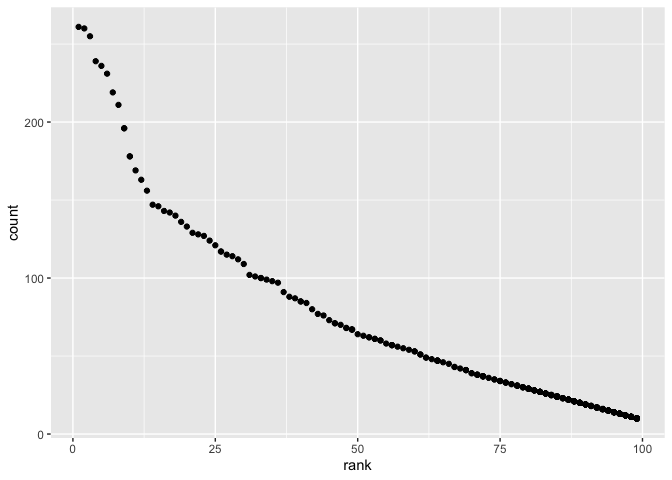
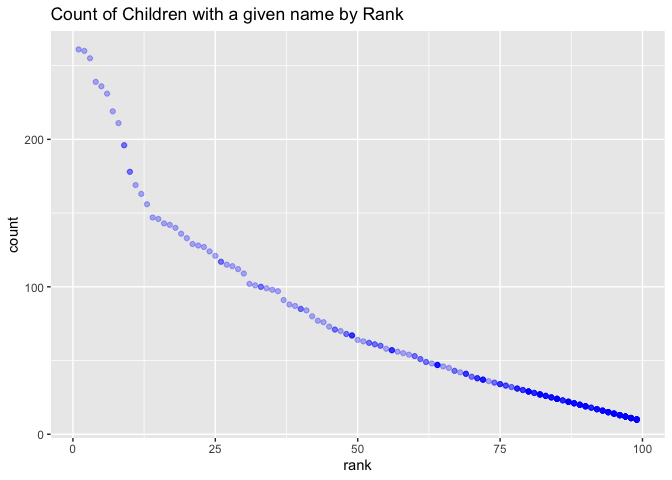
minor edits, removing messages, rounding

diff --git a/p8105_hw2_cz2657.md b/p8105_hw2_cz2657.md
@@ -7,47 +7,38 @@ Reading and cleaning Mr. Trash Wheel sheet
 
 ``` r
 library(tidyverse)
-```
-
-    ## ── Attaching packages ─────────────────────────────────────── tidyverse 1.3.1 ──
-
-    ## ✓ ggplot2 3.3.5     ✓ purrr   0.3.4
-    ## ✓ tibble  3.1.4     ✓ dplyr   1.0.7
-    ## ✓ tidyr   1.1.3     ✓ stringr 1.4.0
-    ## ✓ readr   2.0.1     ✓ forcats 0.5.1
-
-    ## ── Conflicts ────────────────────────────────────────── tidyverse_conflicts() ──
-    ## x dplyr::filter() masks stats::filter()
-    ## x dplyr::lag()    masks stats::lag()
-
-``` r
 library(readxl)
 ```
 
 ``` r
 trash_df = 
-  read_excel("Trash-Wheel-Collection-Totals-8-6-19.xlsx", sheet = "Mr. Trash Wheel", range = "A2:N408", col_names = TRUE) %>% 
+  read_excel("data/Trash-Wheel-Collection-Totals-8-6-19.xlsx", sheet = "Mr. Trash Wheel", range = "A2:N408", col_names = TRUE) %>% 
   janitor::clean_names() %>% 
-  drop_na("dumpster") 
+  drop_na("dumpster") %>% 
+  mutate(sports_balls = round(as.numeric(sports_balls)))
 
-rain2018_df = read_excel("Trash-Wheel-Collection-Totals-8-6-19.xlsx", sheet = "2018 Precipitation", range = "A2:B14", col_names = TRUE) %>% mutate(year = 2018) %>% janitor::clean_names() %>% drop_na(total)
+rain2018_df = read_excel("data/Trash-Wheel-Collection-Totals-8-6-19.xlsx", sheet = "2018 Precipitation", range = "A2:B14", col_names = TRUE) %>%
+  mutate(year = 2018) %>% 
+  janitor::clean_names() %>% 
+  drop_na(total)
 
-rain2019_df = read_excel("Trash-Wheel-Collection-Totals-8-6-19.xlsx", sheet = "2019 Precipitation", range = "A2:B14", col_names = TRUE) %>% mutate(year = 2019) %>% janitor::clean_names() %>% drop_na(total)
+rain2019_df = read_excel("data/Trash-Wheel-Collection-Totals-8-6-19.xlsx", sheet = "2019 Precipitation", range = "A2:B14", col_names = TRUE) %>%
+  mutate(year = 2019) %>% 
+  janitor::clean_names() %>% 
+  drop_na(total)
 
 rain_df = full_join(rain2018_df, rain2019_df) %>% 
   mutate(month = month.name[month]) %>% 
   rename(total_precipitation_in = total)
 ```
 
-    ## Joining, by = c("month", "total", "year")
-
 The `trash_df` dataset has 344 observations and includes the variables
 `weight_tons` and `volume_cubic_yards` which describe the amount of
 garbage consumed by Mr. Trash Wheel. Furthermore, it provides detail
 around the number of plastic bottles (`plastic_bottles`), cigarette
 butts (`cigarette_butts`), and grocery bags (`grocery_bags`) consumed by
-Mr. Trash Wheel. Excitingly, Mr. Trash Wheel powered a maximum of
-93.6666667 using the trash collected for a single dumpster. The median
+Mr. Trash Wheel. Excitingly, Mr. Trash Wheel powered up to 93.6666667
+homes using the trash collected from a single dumpster. The median
 number of `sports_balls` in a dumpster in 2019 was 8.5.
 
 The `rain_df`dataset has 18 observations and includes the variables
@@ -57,71 +48,28 @@ month, total\_precipitation\_in, year. Total precipitation in 2018 was
 ## Problem 2
 
 ``` r
-pols_df = read_csv("pols-month.csv") %>% 
+pols_df = read_csv("data/pols-month.csv") %>% 
   janitor::clean_names() %>% 
-  separate(mon, into = c("year", "month", "day")) %>% 
-  mutate(month = month.name[as.numeric(month)], year = as.numeric(year), president = ifelse(prez_gop, "gop", "dem")) %>% 
+  separate(mon, into = c("year", "month", "day"), convert = TRUE) %>% 
+  mutate(month = month.name[month], president = ifelse(prez_gop, "gop", "dem")) %>% 
   select (-prez_dem, -prez_gop, -day)
-```
 
-    ## Rows: 822 Columns: 9
-
-    ## ── Column specification ────────────────────────────────────────────────────────
-    ## Delimiter: ","
-    ## dbl  (8): prez_gop, gov_gop, sen_gop, rep_gop, prez_dem, gov_dem, sen_dem, r...
-    ## date (1): mon
-
-    ## 
-    ## ℹ Use `spec()` to retrieve the full column specification for this data.
-    ## ℹ Specify the column types or set `show_col_types = FALSE` to quiet this message.
-
-``` r
-snp_df = read_csv("snp.csv") %>% 
+snp_df = read_csv("data/snp.csv") %>% 
   janitor::clean_names() %>% 
   mutate(date = as.Date(date,"%m/%d/%y ")) %>% 
-  separate(date, into = c("year", "month", "day")) %>% 
-  mutate(month = month.name[as.numeric(month)], day = as.numeric(day), year = as.numeric(year)) %>% 
-  select(year, month, everything(), -day) %>% 
-  rename(snp_close_value = close)
-```
+  separate(date, into = c("year", "month", "day"), convert = TRUE) %>% 
+  mutate(month = month.name[month]) %>% 
+  select(year, month, snp_close_value = close, -day)
 
-    ## Rows: 787 Columns: 2
-
-    ## ── Column specification ────────────────────────────────────────────────────────
-    ## Delimiter: ","
-    ## chr (1): date
-    ## dbl (1): close
-
-    ## 
-    ## ℹ Use `spec()` to retrieve the full column specification for this data.
-    ## ℹ Specify the column types or set `show_col_types = FALSE` to quiet this message.
-
-``` r
-unemployment_df = read_csv("unemployment.csv") %>% 
+unemployment_df = read_csv("data/unemployment.csv") %>% 
   pivot_longer(Jan:Dec, names_to = "month") %>% 
   mutate(month = match(month, month.abb), month = month.name[month]) %>% 
   janitor::clean_names() %>% 
   rename(percent_unemployed = value)
-```
 
-    ## Rows: 68 Columns: 13
-
-    ## ── Column specification ────────────────────────────────────────────────────────
-    ## Delimiter: ","
-    ## dbl (13): Year, Jan, Feb, Mar, Apr, May, Jun, Jul, Aug, Sep, Oct, Nov, Dec
-
-    ## 
-    ## ℹ Use `spec()` to retrieve the full column specification for this data.
-    ## ℹ Specify the column types or set `show_col_types = FALSE` to quiet this message.
-
-``` r
 fte_df = left_join(pols_df, snp_df, by = c("year", "month")) %>% 
   left_join(unemployment_df, by = c("year", "month"))
 ```
-
-## Confirm that I can delete day in snp data set
-
-## Confirm that I can not round
 
 The `prez_df` dataset provides information on the number of Republican
 and Democratic government officials during each month beginning in 1947,
@@ -140,7 +88,7 @@ and 816 observations.
 Finally, the compiled dataset, `fte_df` combines this information by
 month and year to provide the unemployment percentage, S&P closing
 value, and political representation information on a monthly basis from
-`r min(pull(fte_df, year))` to 2015, although some information is
+`r min(pull(fte_df, year))` to 2015, although some datapoints are
 missing especially in earlier years. The dataset has 822 observations
 and 11 variables, including all `president`, `percent_unemployed`, and
 `snp_close_value`.
@@ -150,34 +98,11 @@ and 11 variables, including all `president`, `percent_unemployed`, and
 Loading and tidying the baby names data
 
 ``` r
-baby_df = read_csv("Popular_Baby_Names.csv") %>% 
+baby_df = read_csv("data/Popular_Baby_Names.csv") %>% 
   janitor::clean_names() %>% 
   mutate(ethnicity = str_to_lower(ethnicity), gender = str_to_lower(gender), ethnicity = recode (ethnicity, "asian and paci" = "asian and pacific islander", "black non hisp" = "black non hispanic", "white non hisp" = "white non hispanic")) %>% 
   distinct(year_of_birth, gender, ethnicity, childs_first_name, count, rank, .keep_all = TRUE) 
 ```
-
-    ## Rows: 19418 Columns: 6
-
-    ## ── Column specification ────────────────────────────────────────────────────────
-    ## Delimiter: ","
-    ## chr (3): Gender, Ethnicity, Child's First Name
-    ## dbl (3): Year of Birth, Count, Rank
-
-    ## 
-    ## ℹ Use `spec()` to retrieve the full column specification for this data.
-    ## ℹ Specify the column types or set `show_col_types = FALSE` to quiet this message.
-
-## I think this is wrong
-
-baby\_df = read\_csv(“Popular\_Baby\_Names.csv”) %&gt;%
-janitor::clean\_names() %&gt;% mutate(ethnicity =
-str\_to\_lower(ethnicity), gender = str\_to\_lower(gender), ethnicity =
-recode (ethnicity, “asian and paci” = “asian and pacific islander”,
-“black non hisp” = “black non hispanic”, “white non hisp” = “white non
-hispanic”)) %&gt;% distinct(year\_of\_birth, gender, ethnicity,
-childs\_first\_name, count, rank, .keep\_all = TRUE) %&gt;%
-
-## check distinct
 
 ``` r
 olivia_df = baby_df %>% 
@@ -197,7 +122,8 @@ male_df = baby_df %>%
 names_plot = baby_df %>% 
   filter(gender == "male", ethnicity == "white non hispanic", year_of_birth == 2016) %>% 
   ggplot(aes(x = rank, y = count)) +
-  geom_point()
+  geom_point(color = "blue", alpha = .3) +
+  labs(title = "Count of Children with a given name by Rank")
 
 names_plot
 ```
